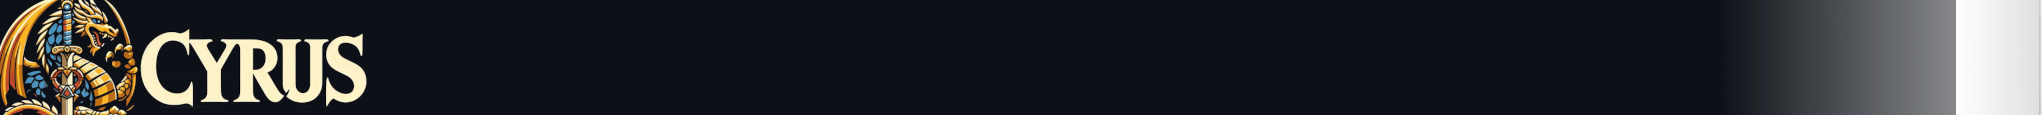
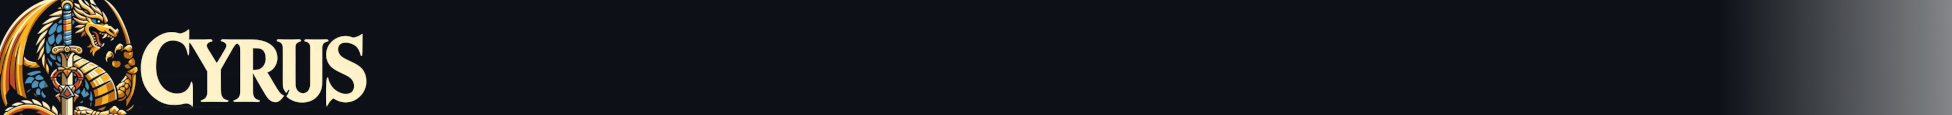
improve layout scaling

Changed region(s): [[0.8438, 0.0, 1.0, 1.0], [0.0, 0.0, 0.1875, 1.0]]

diff --git a/src/qt/CyrusDialog/CyrusDialog.cpp b/src/qt/CyrusDialog/CyrusDialog.cpp
@@ -55,7 +55,9 @@ CyrusDialog::~CyrusDialog()
 
 void CyrusDialog::addCombatPage()
 {
-    ui->tabWidget->addTab(new CombatPage(), "Combat");
+    auto combatPage = new CombatPage();
+    combatPage->setAutoFillBackground(false);
+    ui->tabWidget->addTab(combatPage, "Combat");
 }
 
 

diff --git a/src/qt/CombatPage/CombatPage.cpp b/src/qt/CombatPage/CombatPage.cpp
@@ -6,6 +6,8 @@ CombatPage::CombatPage(QWidget *parent) :
     ui(new Ui::CombatPage)
 {
     ui->setupUi(this);
+    ui->encounterListView->viewport()->setAutoFillBackground(false);
+    ui->initiativeListView->viewport()->setAutoFillBackground(false);
 }
 
 CombatPage::~CombatPage()

diff --git a/src/qt/SettingsPage/SettingsPage.cpp b/src/qt/SettingsPage/SettingsPage.cpp
@@ -6,6 +6,7 @@ SettingsPage::SettingsPage(QWidget *parent) :
     ui(new Ui::SettingsPage)
 {
     ui->setupUi(this);
+    this->setAutoFillBackground(false);
 }
 
 SettingsPage::~SettingsPage()
